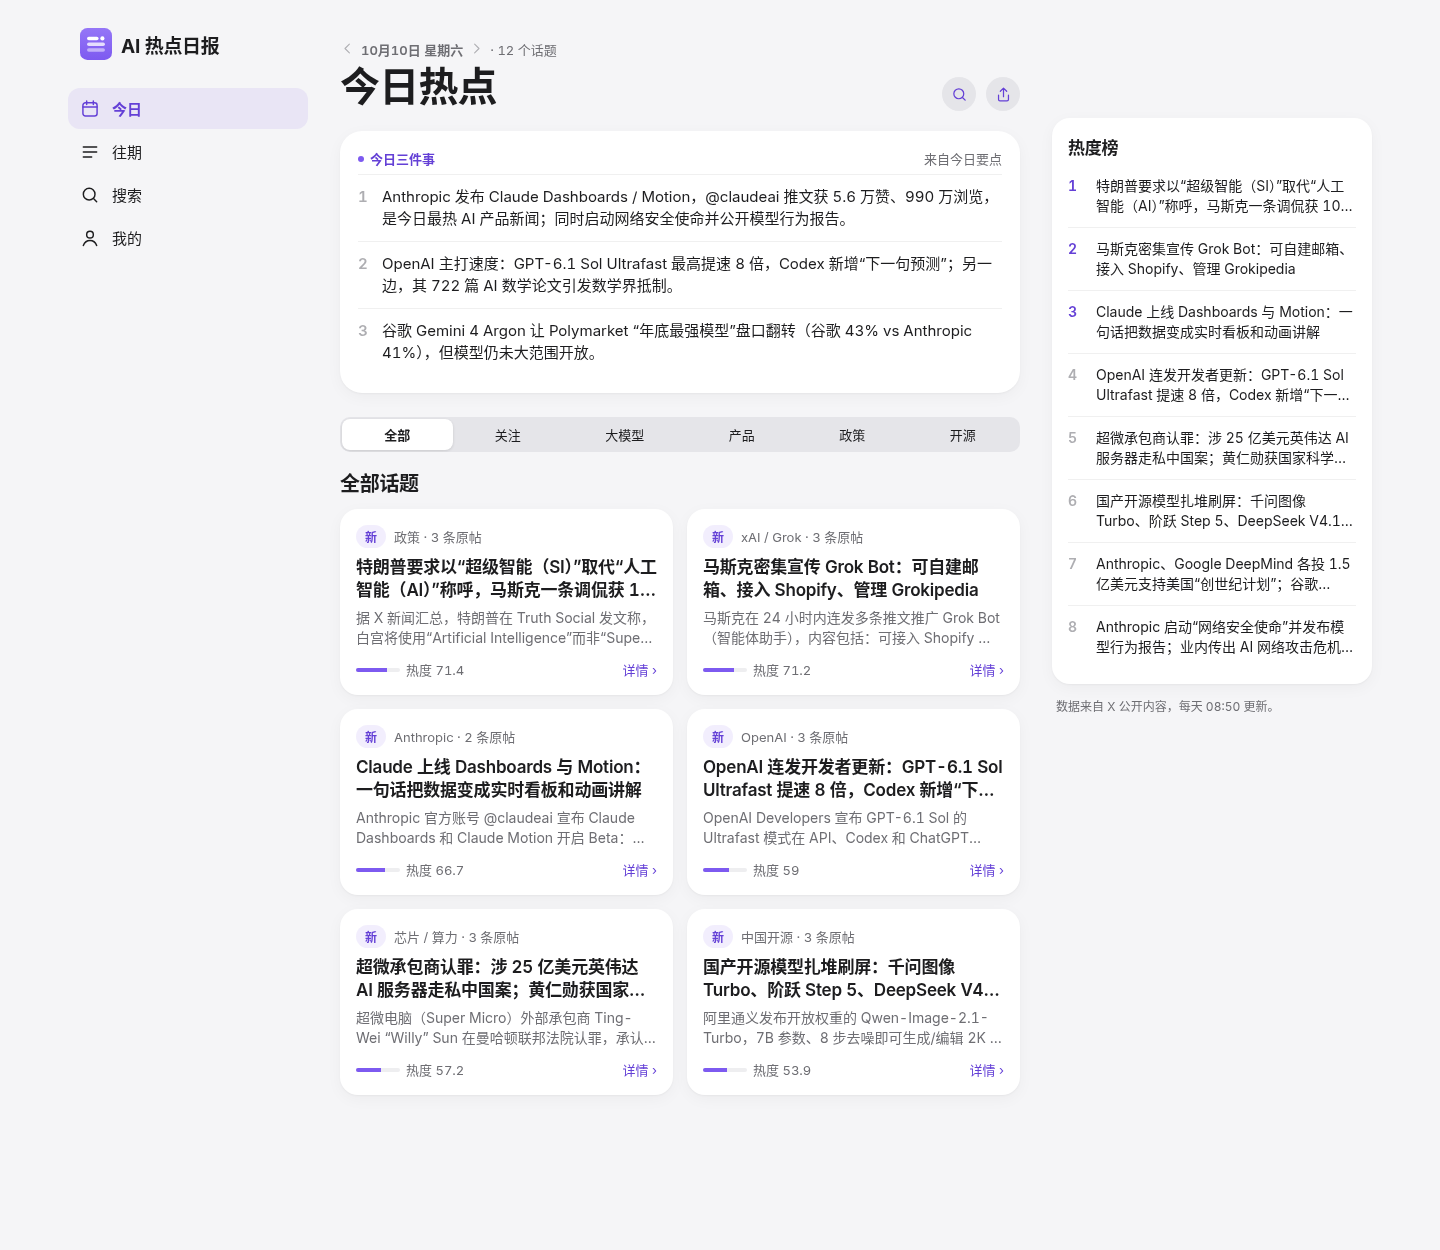
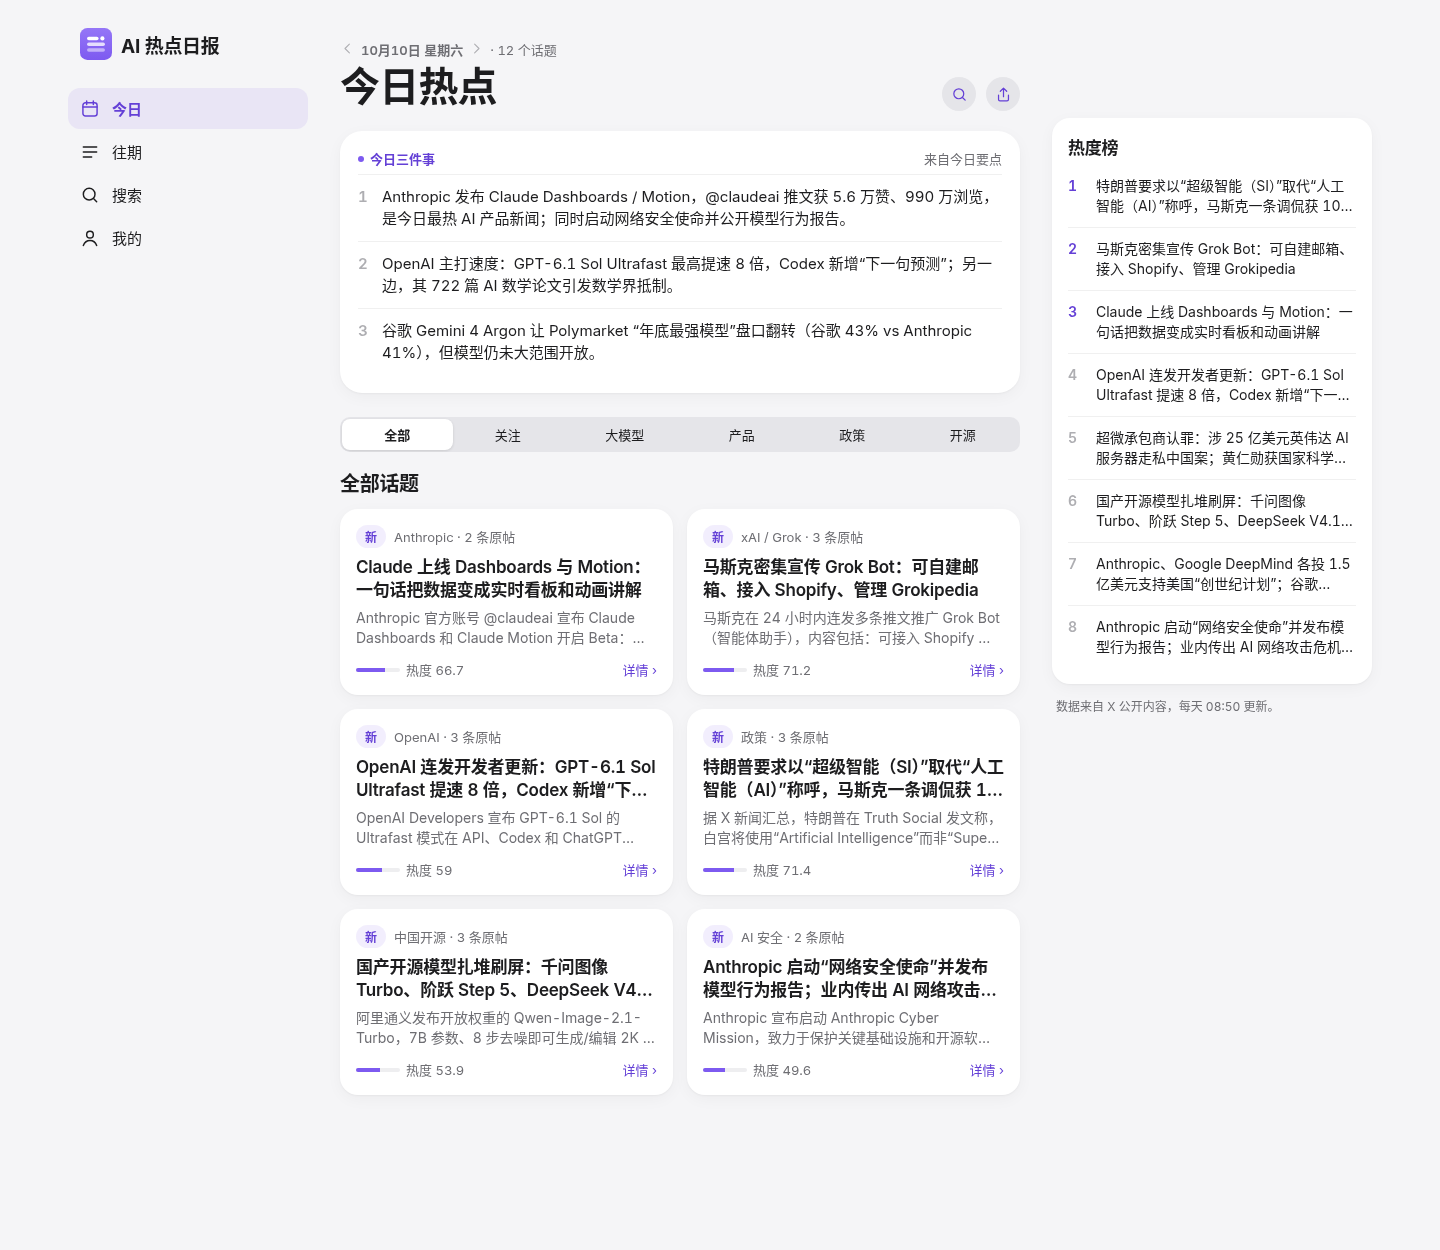
docs(design): 高保真首页卡片按 rank 排序（热度榜仍按 heat），重新生成首页基准截图

diff --git a/docs/design/hifi-mockup.html b/docs/design/hifi-mockup.html
@@ -63,7 +63,7 @@ const ic=(n,s='')=>`<svg class="ic" style="${s}" viewBox="0 0 24 24">${I[n]}</sv
 const logo=(s)=>`<svg width="${s}" height="${s}" viewBox="0 0 100 100"><defs><linearGradient id="lg" x1="0" y1="0" x2="0" y2="1"><stop offset="0" stop-color="#9576F7"/><stop offset="1" stop-color="#7D5AF0"/></linearGradient></defs><rect width="100" height="100" rx="23" fill="url(#lg)"/><rect x="22" y="27" width="36" height="11" rx="5.5" fill="#fff"/><circle cx="70" cy="32.5" r="6.5" fill="#fff"/><rect x="22" y="45" width="56" height="11" rx="5.5" fill="#fff" fill-opacity=".78"/><rect x="22" y="63" width="56" height="11" rx="5.5" fill="#fff" fill-opacity=".5"/></svg>`;
 const fmt=n=>n>=1e4?(n/1e4).toFixed(n>=1e5?0:1)+' 万':n.toLocaleString();
 fetch('../../data/2026-10-10.json').then(r=>r.json()).then(d=>{
- const S=[...d.stories].sort((a,b)=>b.heat-a.heat),H=d.highlights.slice(0,3);
+ const S=d.stories,SH=[...d.stories].sort((a,b)=>b.heat-a.heat),H=d.highlights.slice(0,3);
  const cats=['全部','关注','大模型','产品','政策','开源'];
  const hero=`<div class="hero"><div class="k"><span><i></i>今日三件事</span><em>来自今日要点</em></div>${H.map((h,i)=>`<div class="it"><b>${i+1}</b><span>${h}</span></div>`).join('')}</div>`;
  const card=s=>`<div class="card"><div class="meta"><span class="pill new">新</span>${s.org_tag} · ${s.source_posts.length} 条原帖</div><h3 class="cl2">${s.headline_zh}</h3><p class="cl2">${s.summary_zh}</p><div class="foot"><span class="heat"><span class="bar"><i style="width:${s.heat}%"></i></span>热度 ${s.heat}</span><span class="more">详情 ›</span></div></div>`;
@@ -89,7 +89,7 @@ fetch('../../data/2026-10-10.json').then(r=>r.json()).then(d=>{
  if(view==='desk'){h=`<div class="dk"><aside class="side"><div class="logo" style="font-size:19px;margin:0 0 28px 12px">${logo(32)}AI 热点日报</div><nav class="nav"><a class="on">${ic('today')}今日</a><a>${ic('past')}往期</a><a>${ic('search')}搜索</a><a>${ic('me')}我的</a></nav></aside>
   <main style="padding:40px 0 60px"><div style="display:flex;justify-content:space-between;align-items:flex-end;margin-bottom:20px"><div><div class="eyebrow" style="display:flex;align-items:center;gap:6px"><span style="color:var(--t3)">${ic('back','width:15px;height:15px')}</span>10月10日 星期六<span style="color:var(--t3)">${ic('chev','width:15px;height:15px')}</span><span style="font-weight:400">· ${S.length} 个话题</span></div><div class="lt" style="font-size:40px;line-height:48px;margin-top:4px">今日热点</div></div><div style="display:flex;gap:10px"><span class="ibtn">${ic('search','width:17px;height:17px')}</span><span class="ibtn">${ic('share','width:17px;height:17px')}</span></div></div>
   ${hero}<div style="margin:24px 0 16px">${seg}</div><div class="sec" style="margin-bottom:12px">全部话题</div><div style="display:grid;grid-template-columns:1fr 1fr;gap:14px">${S.slice(0,6).map(card).join('')}</div></main>
-  <aside style="padding:118px 0 40px"><div class="block"><div class="sec" style="font-size:17px;margin-bottom:6px">热度榜</div><div class="rank">${S.slice(0,8).map((s,i)=>`<div class="r"><b>${i+1}</b><span class="cl2" style="flex:1">${s.headline_zh}</span></div>`).join('')}</div></div>
+  <aside style="padding:118px 0 40px"><div class="block"><div class="sec" style="font-size:17px;margin-bottom:6px">热度榜</div><div class="rank">${SH.slice(0,8).map((s,i)=>`<div class="r"><b>${i+1}</b><span class="cl2" style="flex:1">${s.headline_zh}</span></div>`).join('')}</div></div>
   <div style="font-size:12px;color:var(--t2);line-height:18px;margin:14px 4px">数据来自 X 公开内容，每天 08:50 更新。</div></aside></div>`}
  if(view==='deskdetail'){h=`<div class="dk"><aside class="side"><div class="logo" style="font-size:19px;margin:0 0 28px 12px">${logo(32)}AI 热点日报</div><nav class="nav"><a class="on">${ic('today')}今日</a><a>${ic('past')}往期</a><a>${ic('search')}搜索</a><a>${ic('me')}我的</a></nav></aside>
   <main style="padding:28px 0 60px"><div class="nb" style="margin-bottom:6px"><span class="back">${ic('back','width:22px;height:22px')}今日热点</span><div style="display:flex;gap:10px"><span class="ibtn">${ic('bm','width:17px;height:17px')}</span><span class="ibtn">${ic('share','width:17px;height:17px')}</span></div></div>${detailBody(s0).replace('class="dt"','class="dt" style="font-size:30px;line-height:38px"')}</main>

diff --git a/docs/design/pages-v1.md b/docs/design/pages-v1.md
@@ -66,4 +66,4 @@
 {最早日期} 从 `/api/days` 取最早的一天，格式是"10月10日"，不要写死。404 页的 HTML 里不输出 og 标签。
 
 ## 6. 对 hifi-v1 的更正
-首页"全部话题"右边的"按热度"去掉，默认按 `rank` 排序（PRD v6 F1），`hifi-mockup.html` 和首页的 5 张基准截图已重新生成。`mobile-overview.png` 只是总览拼图，不作为基准，仍是旧版。
+首页"全部话题"右边的"按热度"去掉，默认按 `rank` 排序（PRD v6 F1），`hifi-mockup.html` 里的卡片顺序也改成了按 `rank`（就是数据里的原始顺序），首页的 5 张基准截图已重新生成。电脑端右侧的"热度榜"仍然按 `heat` 排。`mobile-overview.png` 只是总览拼图，不作为基准，仍是旧版。
